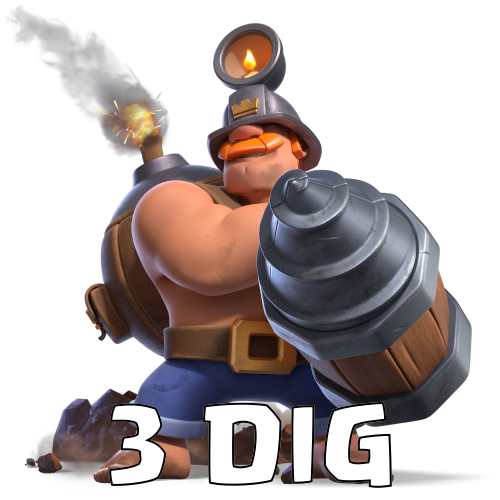
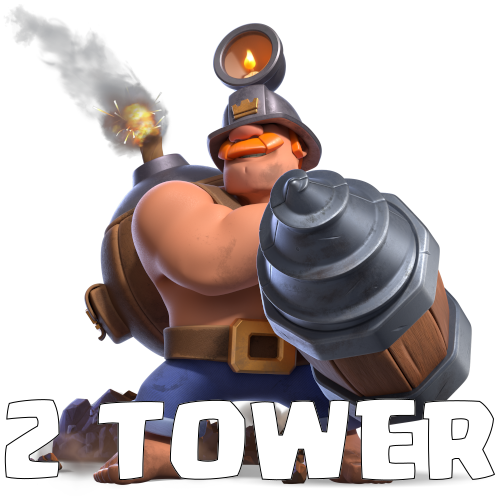
Clash BingoS

Changed region(s): [[0.18, 0.78, 0.99, 0.99], [0.0, 0.78, 0.12, 0.96]]

diff --git a/data.py b/data.py
@@ -30,7 +30,7 @@ MISC_DESCRIPTION = {
     'MegaKnight_Special.png': "Have one MK jump 4 times.",
     'Monk_Special.png': "Hit a tower with any Monk deflected spell.",
     'Mother_Special.png': "Have one Mother Witch summon 10 pigs.",
-    'MightyMiner_Special.png': "Have one Mighty Miner dig 3 times.",
+    'MightyMiner_Special.png': "Have one Mighty Miner destroy 2 towers.",
     'PEKKA_Special.png': "Kill a PEKKA with a Mini PEKKA.",
     'Perfection.png': "Win without troops reaching your towers.",
     'Prince_Special.png': "Have one Prince do 3 sprints.",
